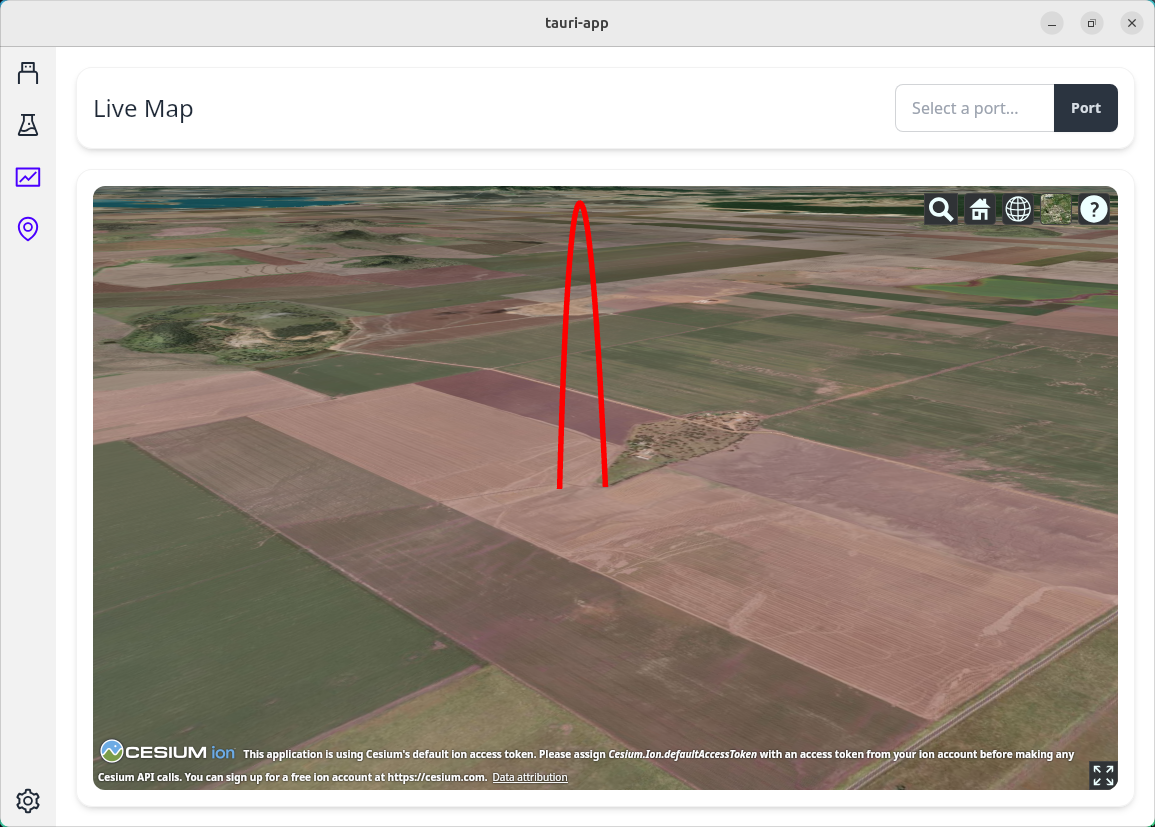
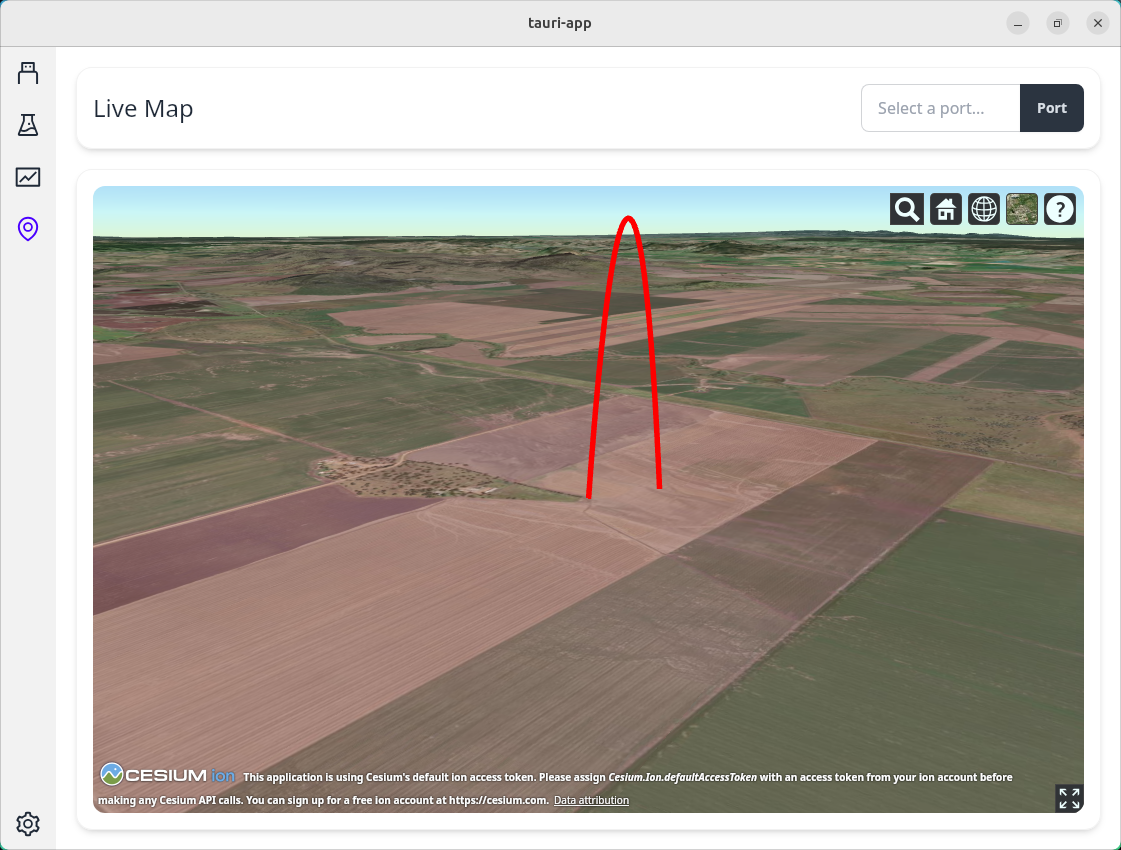
Better example trajectory

diff --git a/src/routes/live-map.tsx b/src/routes/live-map.tsx
@@ -35,111 +35,10 @@ function Map() {
 
       const position = Cesium.Cartesian3.fromDegrees(149.917516, -31.148837, 330);
 
-      const positions = [[0., 0., 0.],
-      [1., 1., 33.],
-      [2., 2., 65.33333333],
-      [3., 3., 97.],
-      [4., 4., 128.],
-      [5., 5., 158.33333333],
-      [6., 6., 188.],
-      [7., 7., 217.],
-      [8., 8., 245.33333333],
-      [9., 9., 273.],
-      [10., 10., 300.],
-      [11., 11., 326.33333333],
-      [12., 12., 352.],
-      [13., 13., 377.],
-      [14., 14., 401.33333333],
-      [15., 15., 425.],
-      [16., 16., 448.],
-      [17., 17., 470.33333333],
-      [18., 18., 492.],
-      [19., 19., 513.],
-      [20., 20., 533.33333333],
-      [21., 21., 553.],
-      [22., 22., 572.],
-      [23., 23., 590.33333333],
-      [24., 24., 608.],
-      [25., 25., 625.],
-      [26., 26., 641.33333333],
-      [27., 27., 657.],
-      [28., 28., 672.],
-      [29., 29., 686.33333333],
-      [30., 30., 700.],
-      [31., 31., 713.],
-      [32., 32., 725.33333333],
-      [33., 33., 737.],
-      [34., 34., 748.],
-      [35., 35., 758.33333333],
-      [36., 36., 768.],
-      [37., 37., 777.],
-      [38., 38., 785.33333333],
-      [39., 39., 793.],
-      [40., 40., 800.],
-      [41., 41., 806.33333333],
-      [42., 42., 812.],
-      [43., 43., 817.],
-      [44., 44., 821.33333333],
-      [45., 45., 825.],
-      [46., 46., 828.],
-      [47., 47., 830.33333333],
-      [48., 48., 832.],
-      [49., 49., 833.],
-      [50., 50., 833.33333333],
-      [51., 51., 833.],
-      [52., 52., 832.],
-      [53., 53., 830.33333333],
-      [54., 54., 828.],
-      [55., 55., 825.],
-      [56., 56., 821.33333333],
-      [57., 57., 817.],
-      [58., 58., 812.],
-      [59., 59., 806.33333333],
-      [60., 60., 800.],
-      [61., 61., 793.],
-      [62., 62., 785.33333333],
-      [63., 63., 777.],
-      [64., 64., 768.],
-      [65., 65., 758.33333333],
-      [66., 66., 748.],
-      [67., 67., 737.],
-      [68., 68., 725.33333333],
-      [69., 69., 713.],
-      [70., 70., 700.],
-      [71., 71., 686.33333333],
-      [72., 72., 672.],
-      [73., 73., 657.],
-      [74., 74., 641.33333333],
-      [75., 75., 625.],
-      [76., 76., 608.],
-      [77., 77., 590.33333333],
-      [78., 78., 572.],
-      [79., 79., 553.],
-      [80., 80., 533.33333333],
-      [81., 81., 513.],
-      [82., 82., 492.],
-      [83., 83., 470.33333333],
-      [84., 84., 448.],
-      [85., 85., 425.],
-      [86., 86., 401.33333333],
-      [87., 87., 377.],
-      [88., 88., 352.],
-      [89., 89., 326.33333333],
-      [90., 90., 300.],
-      [91., 91., 273.],
-      [92., 92., 245.33333333],
-      [93., 93., 217.],
-      [94., 94., 188.],
-      [95., 95., 158.33333333],
-      [96., 96., 128.],
-      [97., 97., 97.],
-      [98., 98., 65.33333333],
-      [99., 99., 33.],
-      [100., 100., 0.]]
-
       let linePositions = [];
-      for (let i = 0; i < positions.length; i++) {
-        linePositions.push(getOffsetPosition(position, positions[i][0], positions[i][1], positions[i][2]));
+      const num_positions = 100
+      for (let i = 0; i < num_positions; i++) {
+        linePositions.push(getOffsetPosition(position, -i*2, i*1.5, (i/3)*(-i+num_positions-1)));
       }
 
       viewer.entities.add({
